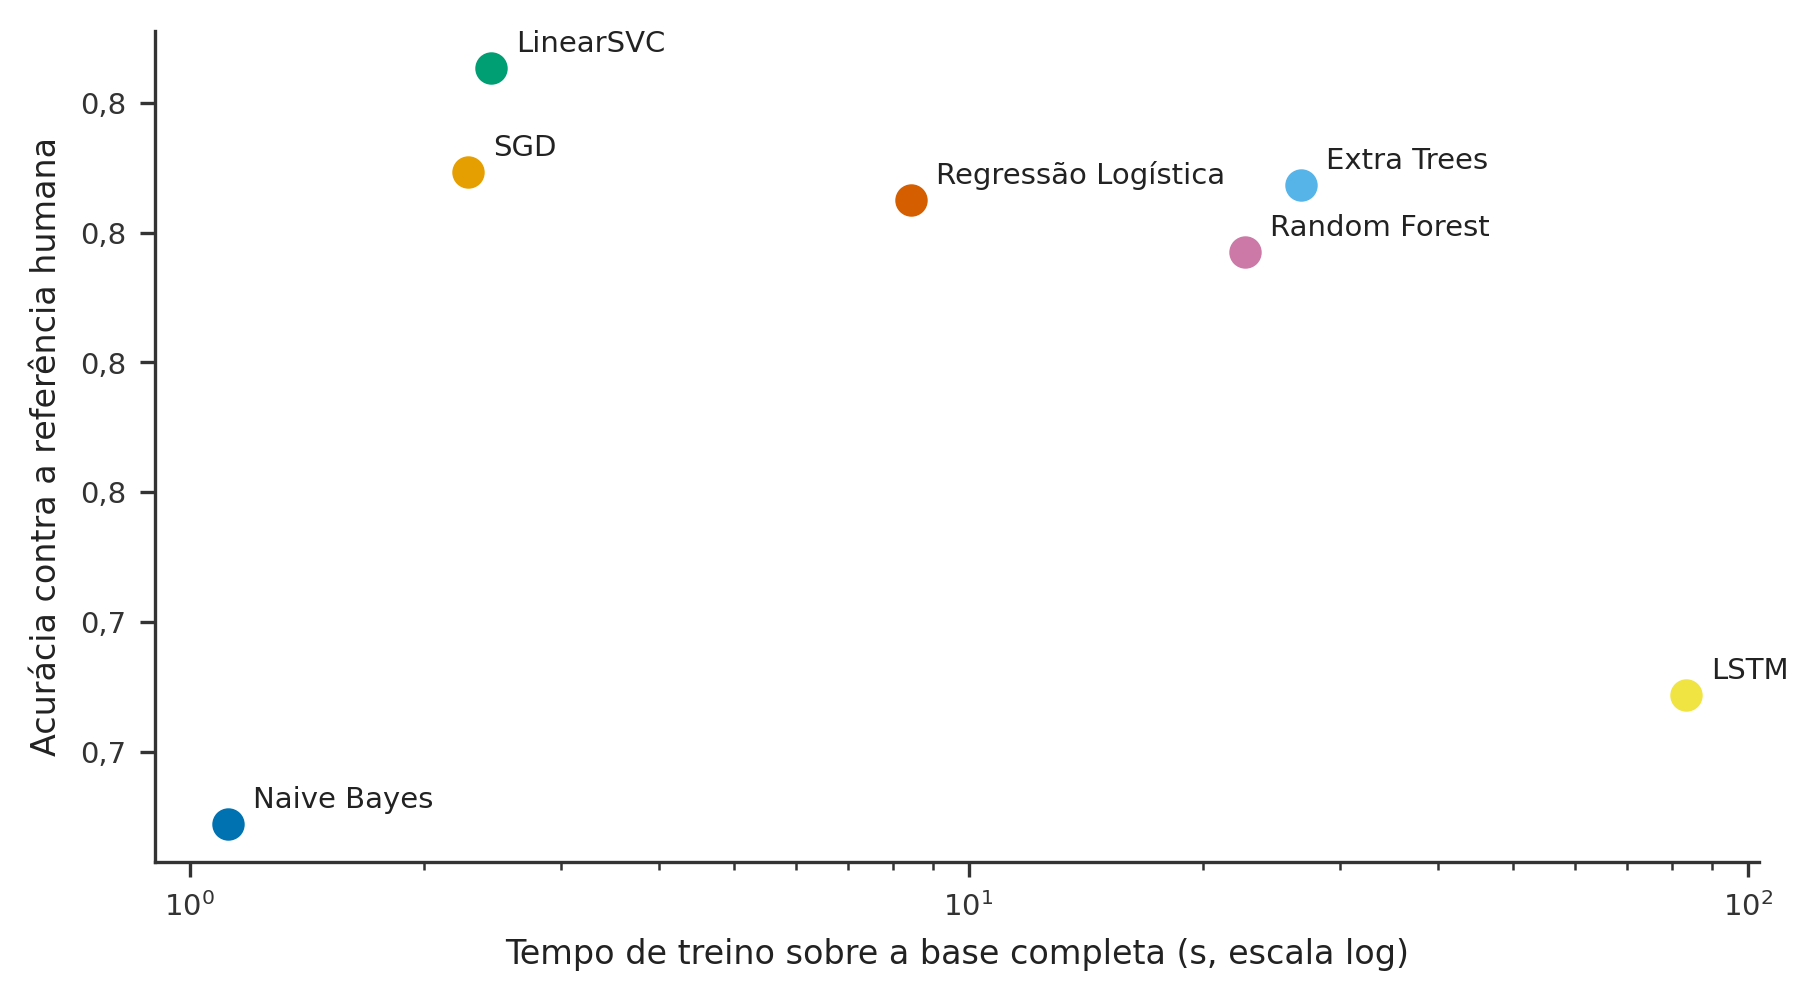
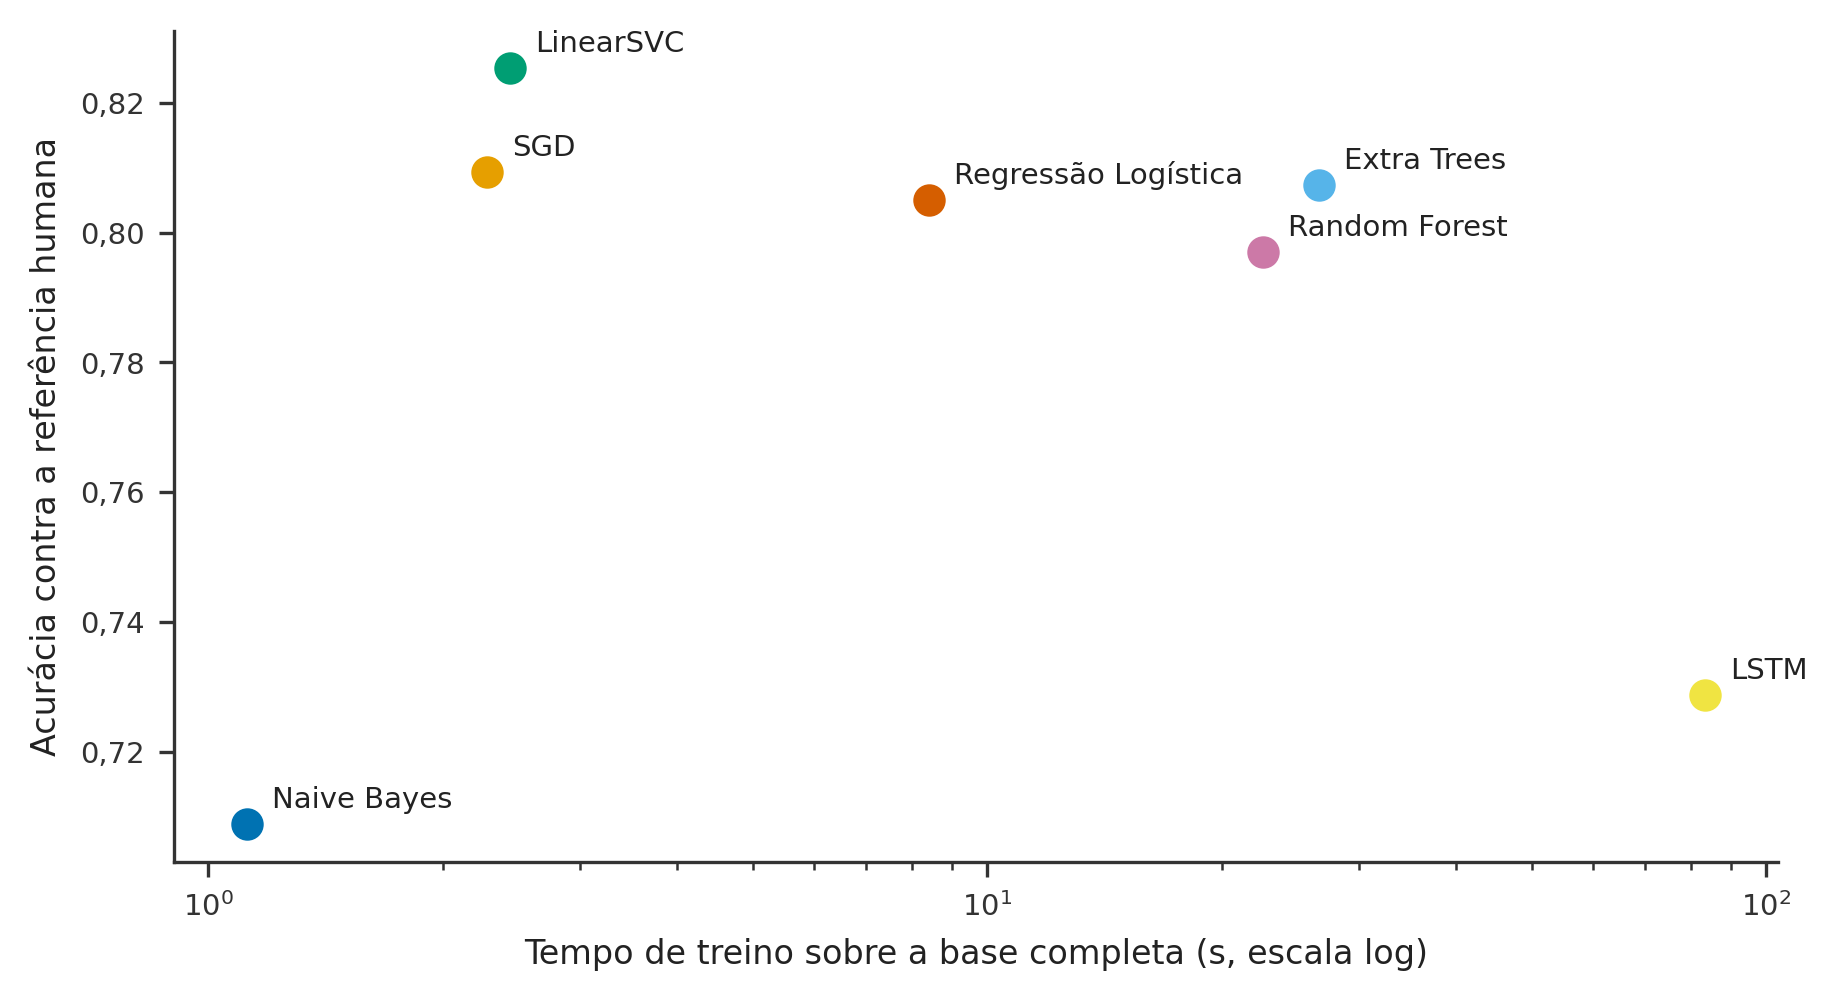
Corrigir arredondamento do eixo Y da Figura 2 (trade-off de custo)
formatar_decimal() em src/gerar_figuras_canonicas.py ganha o parametro
casas (padrao 1, preservando as demais figuras). figura_custo() passa
a chamar formatar_decimal(ax, eixo="y", casas=2), pois o arredondamento
de 1 casa fazia marcas distintas de acuracia (~0,80/0,82/0,85)
aparecerem como "0,8" repetido no eixo Y.

Apenas fig_tradeoff_custo.pdf/.png foram regenerados
(--apenas custo), hash 1e4762438a7e conferido pelo proprio gerador.
O script legado gerar_figura3_tradeoff_custo.py nao foi executado nem
alterado.

Referencias documentais em PLANO_ARTIGO_CAPITULO.md, PLANO_EXECUCAO_ATUAL.md
e 04_artigo/README.md que atribuiam a pendencia ao script legado foram
corrigidas para apontar o gerador canonico.

diff --git a/src/gerar_figuras_canonicas.py b/src/gerar_figuras_canonicas.py
@@ -101,11 +101,13 @@ def abreviar(categoria: str, limite: int = 34) -> str:
     return f"[{marca}] {folha}"
 
 
-def formatar_decimal(ax, eixo: str = "x") -> None:
-    """Virgula decimal no eixo, para casar com o restante do artigo."""
+def formatar_decimal(ax, eixo: str = "x", casas: int = 1) -> None:
+    """Vírgula decimal no eixo, para casar com o restante do artigo."""
     from matplotlib.ticker import FuncFormatter
 
-    formatador = FuncFormatter(lambda v, _p: f"{v:.1f}".replace(".", ","))
+    formatador = FuncFormatter(
+        lambda v, _p: f"{v:.{casas}f}".replace(".", ",")
+    )
     (ax.xaxis if eixo == "x" else ax.yaxis).set_major_formatter(formatador)
 
 
@@ -267,7 +269,7 @@ def figura_custo(retreino: dict[str, Any], custo: dict[str, Any]) -> None:
     ax.set_xscale("log")
     ax.set_xlabel("Tempo de treino sobre a base completa (s, escala log)")
     ax.set_ylabel("Acurácia contra a referência humana")
-    formatar_decimal(ax, eixo="y")
+    formatar_decimal(ax, eixo="y", casas=2)
     limpar_eixo(ax)
     salvar(fig, FIGURAS / "fig_tradeoff_custo")
 

diff --git a/PLANO_ARTIGO_CAPITULO.md b/PLANO_ARTIGO_CAPITULO.md
@@ -203,12 +203,14 @@ dimensões da Rodada 8, mantidas sem alteração; as Tabelas 1 a 4
 permanecem íntegras, com legenda e conteúdo na mesma página; as
 Tabelas A1 a A3 do apêndice, embora em `longtable`, já cabiam cada uma
 inteira em uma única página, mas usavam fonte `\scriptsize`, abaixo do
-piso de legibilidade desta rodada. Pendência registrada, fora do
-escopo desta rodada: o eixo Y da Figura 2 (trade-off de custo) arredonda
+piso de legibilidade desta rodada. Achado do PDF de partida, corrigido
+ainda nesta rodada: o eixo Y da Figura 2 (trade-off de custo) arredondava
 os rótulos para uma casa decimal, fazendo marcas distintas (~0,80/0,82/
-0,85) aparecerem como "0,8" repetido; a correção exige editar
-`src/gerar_figura3_tradeoff_custo.py` e regenerar o artefato da figura,
-não apenas o LaTeX.
+0,85) aparecerem como "0,8" repetido; corrigido em
+`src/gerar_figuras_canonicas.py` (parâmetro `casas` em
+`formatar_decimal()`, aplicado com `casas=2` em `figura_custo()`), com
+apenas o artefato `fig_tradeoff_custo` regenerado. O gerador legado
+`src/gerar_figura3_tradeoff_custo.py` não foi executado nem alterado.
 
 **Tabelas A1 a A3 convertidas para floats não divisíveis.** Passaram de
 `longtable` para `\begin{table}[!tbp]`/`[!tp]` com `tabularx`, no mesmo
@@ -250,9 +252,13 @@ por não haver medida permitida (sem reduzir fonte, margem ou
 `floatsep`) que resolvesse sem risco de destabilizar outras páginas
 sem capacidade de recompilação iterativa rápida.
 
-**O que falta:** nenhuma pendência de escopo desta rodada. A correção
-do arredondamento do eixo da Figura 2 fica registrada para rodada
-futura que edite scripts geradores de figura.
+**Microcorreção posterior (mesma Rodada 9, mesma branch):** o
+arredondamento do eixo Y da Figura 2 foi corrigido em
+`src/gerar_figuras_canonicas.py`, com `fig_tradeoff_custo.pdf`/`.png`
+regenerados sob o mesmo hash canônico `1e4762438a7e`. O eixo passou a
+exibir duas casas decimais, sem marcas repetidas.
+
+**O que falta:** nenhuma pendência de escopo desta rodada.
 
 ## Critérios para novo fechamento científico
 
